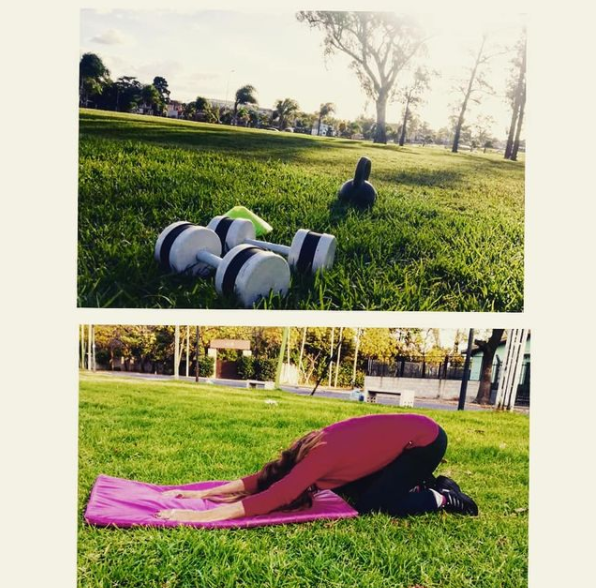
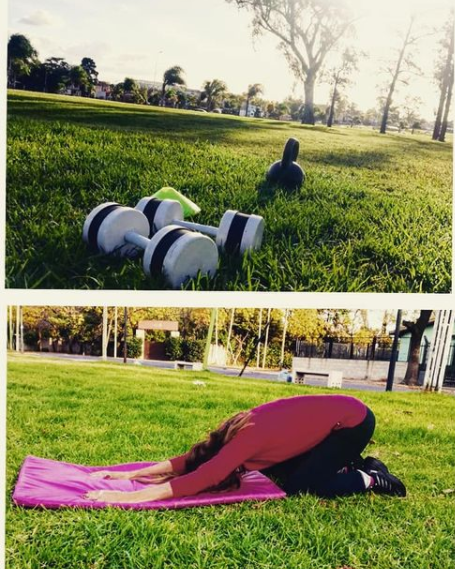
Se modifican las imagenes de las rutinas

diff --git a/index.html b/index.html
@@ -77,21 +77,30 @@
 
 
     <div id="rutinas">
-        
+        <div class="padre-rutinas">
 
-        <div class="entrenamientos personalizado">
-            <h3>Personalizados</h3>
-            <img  class="foto" src="Images/Personalizado.png" alt="Personalizado">
-        </div>
+            <div class="rutina-hija">
+                <div class="contenido-personalizado">
+                    <h3>Personalizados</h3>
+                    <p>Entrenamientos personalizados en funcion del resultado que buscas: aumentar masa muscular,
+                    fuerza o trabajo aerobico personalizado</p>
+                </div> 
 
-        <div class="entrenamientos grupal">
-             <h3>Grupales</h3>
-             <img class="foto" src="Images/Grupales.png" alt="Grupales">
-        </div>
+                <div class="imagen-personalizado">
+                    <img  class="foto" src="Images/Personalizado.png" alt="Personalizado">
+                </div>  
+            </div>
+            
+            <div class="hija-unica">
+                <img class="foto" src="Images/Grupales.png" alt="Grupales">
+                <h3>Grupales</h3>
+            </div>
+            
+            <div class="rutina-hija">
+                <h3>Funcionales</h3>
+                <img class="foto" src="Images/Funcional.png" alt="Fun">
+            </div>
 
-        <div class="entrenamientos funcional">
-            <h3>Funcionales</h3>
-            <img class="foto" src="Images/Funcional.png" alt="Fun">
         </div>
     </div>
     

diff --git a/Styles/style.css b/Styles/style.css
@@ -120,7 +120,28 @@ a.propuesta:hover, a.propuesta:active{
 
 #rutinas{
     background-color: dimgrey;
+   
 }
+
+.padre-rutinas{
+    display: flex;
+    flex-direction: row;
+    justify-content:space-between;
+    padding-top: 20px;
+    width: 100%;
+}
+
+.rutina-hija{
+    display: flex;
+    flex-direction: row;
+    justify-content: space-between;
+    align-items: center;
+    padding-top: 20px;
+    width: 100%;
+}
+
+
+
 
 .foto{
     border:10px solid floralwhite ;
